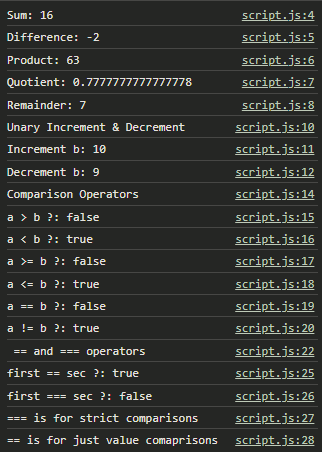
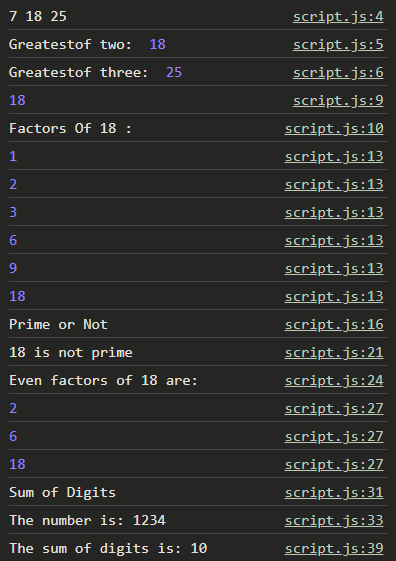
fin:js2

diff --git a/Day-5/assignments/JS-Asg-2/index.html b/Day-5/assignments/JS-Asg-2/index.html
@@ -4,7 +4,7 @@
 <head>
     <meta charset="UTF-8">
     <meta name="viewport" content="width=device-width, initial-scale=1.0">
-    <title>JS-1 Asg</title>
+    <title>JS-2 Asg</title>
     <link href="../../../../fonts/Lausanne/stylesheet.css" rel="stylesheet" type="text/css" />
     <link rel="preconnect" href="https://fonts.googleapis.com">
     <link rel="preconnect" href="https://fonts.gstatic.com" crossorigin>
@@ -42,34 +42,6 @@
                 </div>
                 <div class="modal-body">
                     <pre>
-                        let a = 7;
-                        let b = 9;
-                        // 1. Write a program to implement Arithmetic operations
-                        console.log("Sum: " + (a + b));
-                        console.log("Difference: " + (a - b));
-                        console.log("Product: " + a * b);
-                        console.log("Quotient: " + a / b);
-                        console.log("Remainder: " + (a % b));
-                        // 2. Write a program to test unary increment & decrement operators
-                        console.log("Unary Increment & Decrement ");
-                        console.log("Increment b: " + ++b);
-                        console.log("Decrement b: " + --b);
-                        // 3. Write a program to verify comparison operators
-                        console.log("Comparison Operators");
-                        console.log("a > b ?: " + (a > b));
-                        console.log("a < b ?: " + (a < b));
-                        console.log("a >= b ?: " + (a >= b));
-                        console.log("a <= b ?: " + (a <= b));
-                        console.log("a == b ?: " + (a == b));
-                        console.log("a != b ?: " + (a != b));
-                        // 4. Write a program to find difference between == and === operators
-                        console.log(" == and === operators");
-                        let first = 10;
-                        let sec = "10";
-                        console.log("first == sec ?: " + (first == sec));
-                        console.log("first === sec ?: " + (first === sec));
-                        console.log("=== is for strict comparisons");
-                        console.log("== is for just value comaprisons");
                         
                     </pre>
                 </div>

diff --git a/Day-5/assignments/JS-Asg-2/script.js b/Day-5/assignments/JS-Asg-2/script.js
@@ -1,35 +1,26 @@
-let a=9;
-let b=10;
-let c=20;
-console.log("The value of a is: "+a);
-console.log("The value of b is: "+b);
-console.log("The value of c is: "+c);
+let a=7;
+let b=18;
+let c=25;
+console.log(a+" "+b+" "+c)
+console.log("Greatestof two: ", a>b?a:b);
+console.log("Greatestof three: ", a>b?(a>c?a:c):b>c?b:c);
 
-console.log("Greatest number in two numbers: ", a>b?a:b);
-console.log("Greatest number in three numbers: ", a>b?(a>c?a:c):b>c?b:c);
-
-let n=10;
-console.log("The value of n is: "+n);
-console.log("Factors Of " +n+ " are:")
-for(let i=1;i<=n;i++){
-    if(n%i==0){
+let n=18;
+console.log(n);
+console.log("Factors Of " +n+ " :")
+for(let i=1;i<=n;i++)
+    if(n%i==0)
         console.log(i);
-    }
-}
 
-console.log("Check whether the number is prime or not");
-let count=0;
-for(let i=1;i<=n;i++){
-    if(n%i==0){
-        count++;
-    }
-}
-if(count==2)
-    console.log("The number is prime");
-else
-    console.log("The number is not prime");
 
-console.log("Print even factors of a number");
+console.log("Prime or Not");
+let cnt=0;
+for(let i=1;i<=n;i++)
+    if(n%i==0)
+        cnt++;
+(cnt==2)?console.log(n+" is prime"):console.log(n+" is not prime");
+
+
 console.log("Even factors of " +n+ " are:");
 for(let i=1;i<=n;i++){
     if(n%i==0 && i%2==0){
@@ -37,12 +28,12 @@ for(let i=1;i<=n;i++){
     }
 }
 
-console.log("Sum of Digits in a Number");
-let num=1234;
-console.log("The number is: "+num);
-let sum=0;
+console.log("Sum of Digits");
+let numb=1234;
+console.log("The number is: "+numb);
+let s=0;
 for(let i=0;i<n;i++){
-    sum+=num%10;
-    num=Math.floor(num/10);
+    s+=numb%10;
+    numb=Math.floor(numb/10);
 }
-console.log("The sum of digits is: "+sum);
+console.log("The sum of digits is: "+s);
